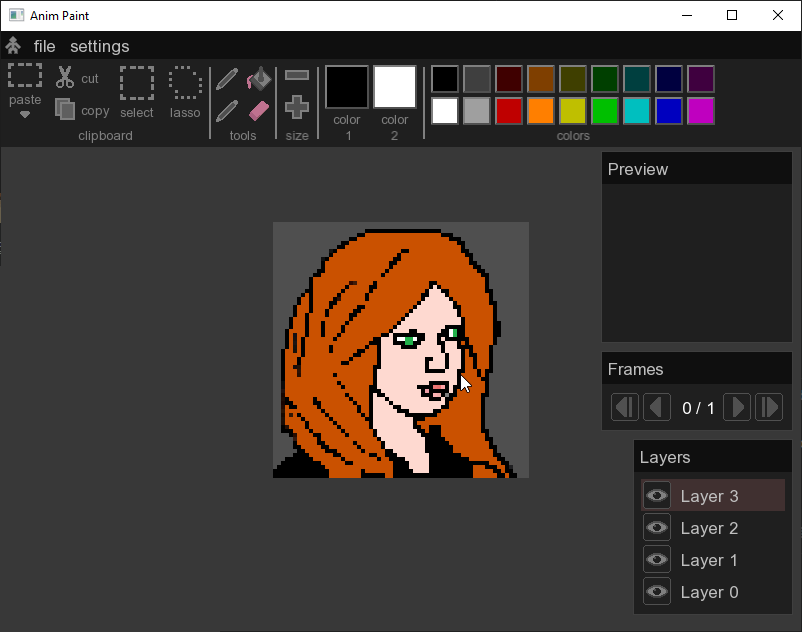
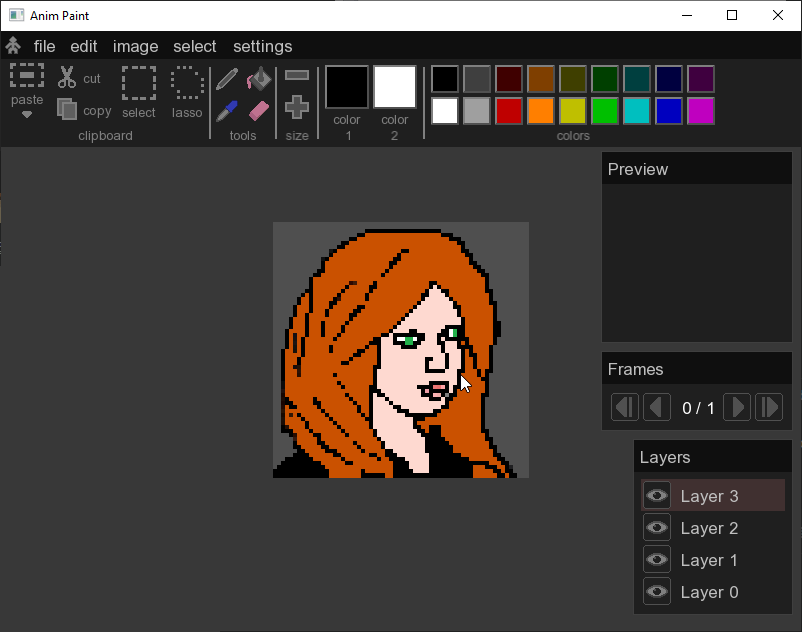
extend main menu

diff --git a/Anim-Paint/MainMenu.hpp b/Anim-Paint/MainMenu.hpp
@@ -229,20 +229,6 @@ public:
 
 		// FILE
 		MenuBox* file = new MenuBox(L"file");
-		OptionBox* newFile = new OptionBox(L"new file");
-		OptionBox* save = new OptionBox(L"save");
-		OptionBox* saveAs = new OptionBox(L"save as");
-		OptionBox* open = new OptionBox(L"open");
-		OptionBox* exp = new OptionBox(L"export");
-		OptionBox* imp = new OptionBox(L"import");
-		
-		file->addOption(newFile);
-		file->addOption(save);
-		file->addOption(saveAs);
-		file->addOption(open);
-		file->addOption(exp);
-		file->addOption(imp);
-
 		file->onclick_func = [this, file]() {
 			if (open_menu_box != nullptr)
 				open_menu_box->isOpen = false;
@@ -250,33 +236,53 @@ public:
 			open_menu_box = file;
 			open_menu_box->isOpen = true;
 			};
-
 		menu_boxes.push_back(file);
+
+		OptionBox* file_new = new OptionBox(L"new file");
+		file_new->onclick_func = [this]() {
+			dialogs.push_back(new Dialog(L"new file", sf::Vector2f(200, 200)));
+			if (this->open_menu_box != nullptr)
+				open_menu_box->isOpen = false;
+			open_menu_box = nullptr;
+			};
+		OptionBox* file_save = new OptionBox(L"save");
+		OptionBox* file_saveAs = new OptionBox(L"save as");
+		OptionBox* file_open = new OptionBox(L"open");
+		OptionBox* file_export = new OptionBox(L"export");
+		OptionBox* file_import = new OptionBox(L"import");
+		
+		file->addOption(file_new);
+		file->addOption(file_save);
+		file->addOption(file_saveAs);
+		file->addOption(file_open);
+		file->addOption(file_export);
+		file->addOption(file_import);
+
+		// EDIT
+		MenuBox* edit = new MenuBox(L"edit");
+		edit->onclick_func = [this, edit]() {
+			if (open_menu_box != nullptr)
+				open_menu_box->isOpen = false;
+
+			open_menu_box = edit;
+			open_menu_box->isOpen = true;
+			};
+		menu_boxes.push_back(edit);
+
+		OptionBox* edit_undo = new OptionBox(L"undo");
+		OptionBox* edit_redo = new OptionBox(L"redo");
+		OptionBox* edit_cut = new OptionBox(L"cut");
+		OptionBox* edit_copy = new OptionBox(L"copy");
+		OptionBox* edit_paste = new OptionBox(L"paste");
+
+		edit->addOption(edit_undo);
+		edit->addOption(edit_redo);
+		edit->addOption(edit_cut);
+		edit->addOption(edit_copy);
+		edit->addOption(edit_paste);
 
 		// IMAGE
 		MenuBox* image = new MenuBox(L"image");
-		OptionBox* image_resize = new OptionBox(L"resize");
-		OptionBox* image_trim = new OptionBox(L"trim");
-		OptionBox* image_brightness_contrast = new OptionBox(L"brightness-contrast");
-		OptionBox* image_brightness = new OptionBox(L"brightness");
-		image_brightness->onclick_func = [this]() {
-			set_brightness(layers_dialog->getCurrentLayer()->image, 0.15f);
-			std::cout << "click\n";	// nie działa
-			};
-		OptionBox* image_contrast = new OptionBox(L"contrast");
-		image_contrast->onclick_func = [this]() {
-			set_contrast(layers_dialog->getCurrentLayer()->image, 1.5f);
-			std::cout << "click\n";	// działa
-			};
-		OptionBox* image_hue = new OptionBox(L"hue");
-		
-		image->addOption(image_resize);
-		image->addOption(image_trim);
-		image->addOption(image_brightness_contrast);
-		image->addOption(image_brightness);
-		image->addOption(image_contrast);
-		image->addOption(image_hue);
-
 		image->onclick_func = [this, image]() {
 			if (open_menu_box != nullptr)
 				open_menu_box->isOpen = false;
@@ -284,27 +290,35 @@ public:
 			open_menu_box = image;
 			open_menu_box->isOpen = true;
 			};
-
 		menu_boxes.push_back(image);
+
+		OptionBox* image_resize_scale = new OptionBox(L"resize/scale");
+		OptionBox* image_trim = new OptionBox(L"trim");
+		OptionBox* image_brightness_contrast = new OptionBox(L"brightness-contrast");
+		image_brightness_contrast->onclick_func = [this]() {
+			dialogs.push_back(new Dialog(L"brightness-contrast", sf::Vector2f(200, 200), sf::Vector2f(8, 120)));
+			//set_brightness(layers_dialog->getCurrentLayer()->image, 0.15f);
+			//set_contrast(layers_dialog->getCurrentLayer()->image, 1.5f);
+
+			if(open_menu_box!=nullptr)
+				open_menu_box->isOpen = false;
+			open_menu_box = nullptr;
+			};
+		OptionBox* saturation = new OptionBox(L"saturation");
+		OptionBox* image_hue = new OptionBox(L"hue");
+		OptionBox* image_gray = new OptionBox(L"grayscale mode");
+		OptionBox* image_invert = new OptionBox(L"invert colors");
+		
+		image->addOption(image_resize_scale);
+		image->addOption(image_trim);
+		image->addOption(image_brightness_contrast);
+		image->addOption(saturation);
+		image->addOption(image_hue);
+		image->addOption(image_gray);
+		image->addOption(image_invert);
 
 		// SELECT
 		MenuBox* select = new MenuBox(L"select");
-		OptionBox* select_all = new OptionBox(L"select all");
-		OptionBox* select_none = new OptionBox(L"none");
-		OptionBox* select_invert = new OptionBox(L"invert");
-		OptionBox* select_brightness_contrast = new OptionBox(L"brightness-contrast");
-		OptionBox* select_brightness = new OptionBox(L"brightness");
-		OptionBox* select_contrast = new OptionBox(L"contrast");
-		OptionBox* select_hue = new OptionBox(L"hue");
-
-		select->addOption(select_all);
-		select->addOption(select_none);
-		select->addOption(select_invert);
-		select->addOption(select_brightness_contrast);
-		select->addOption(select_brightness);
-		select->addOption(select_contrast);
-		select->addOption(select_hue);
-
 		select->onclick_func = [this, select]() {
 			if (open_menu_box != nullptr)
 				open_menu_box->isOpen = false;
@@ -312,14 +326,32 @@ public:
 			open_menu_box = select;
 			open_menu_box->isOpen = true;
 			};
-
 		menu_boxes.push_back(select);
+
+		OptionBox* select_all = new OptionBox(L"select all");
+		OptionBox* select_none = new OptionBox(L"none");
+		OptionBox* select_invert = new OptionBox(L"invert selection");
+		OptionBox* select_resize_scale = new OptionBox(L"resize/scale");
+		OptionBox* select_brightness_contrast = new OptionBox(L"brightness-contrast");
+		OptionBox* select_saturation = new OptionBox(L"saturation");
+		OptionBox* select_hue = new OptionBox(L"hue");
+		OptionBox* select_gray = new OptionBox(L"grayscale mode");
+		OptionBox* select_invert_colors = new OptionBox(L"invert colors");
+		
+
+		select->addOption(select_all);
+		select->addOption(select_none);
+		select->addOption(select_invert);
+		select->addOption(select_resize_scale);
+		select->addOption(select_brightness_contrast);
+		select->addOption(select_saturation);
+		select->addOption(select_hue);
+		select->addOption(select_gray);
+		select->addOption(select_invert_colors);
 
 
 		// SETTINGS
 		MenuBox* settings = new MenuBox(L"settings");
-		menu_boxes.push_back(settings);
-
 		settings->onclick_func = [this, settings]() {
 			if (open_menu_box != nullptr)
 				open_menu_box->isOpen = false;
@@ -327,6 +359,7 @@ public:
 			open_menu_box = settings;
 			open_menu_box->isOpen = true;
 			};
+		menu_boxes.push_back(settings);
 
 		
 		// POSITIONING

diff --git a/Anim-Paint/Dialog.hpp b/Anim-Paint/Dialog.hpp
@@ -1,34 +1,50 @@
 #ifndef Dialog_hpp
 #define Dialog_hpp
 
+enum class DialogState { Idle, ToClose };
 
-
-class Dialog: public ElementGUI {
+class Dialog : public ElementGUI {
 public:
 	sf::Vector2f position;
 	sf::RectangleShape dialog_rect;
 	sf::RectangleShape title_rect;
 	sf::Text title_text;
 	sf::RectangleShape content_rect;
+	NormalButton* close_btn;
+
+	DialogState state;
 
 	bool is_moved;
 	sf::Vector2f offset;
-	
-	Dialog(std::wstring title, sf::Vector2f size, sf::Vector2f position = sf::Vector2f(0,0)) {
+
+	Dialog(std::wstring title, sf::Vector2f size, sf::Vector2f position = sf::Vector2f(-1, -1)) {
+
+		state = DialogState::Idle;
 
 		dialog_rect = sf::RectangleShape(size);
 		dialog_rect.setFillColor(dialog_border_color);
 
-		title_rect = sf::RectangleShape(sf::Vector2f(size.x-2* dialog_border_width, dialog_title_rect_height));
+		title_rect = sf::RectangleShape(sf::Vector2f(size.x - 2 * dialog_border_width, dialog_title_rect_height));
 		title_rect.setFillColor(dialog_title_rect_color);
 
 		title_text = sf::Text(title, basicFont, dialog_title_font_size);
 		title_text.setFillColor(dialog_title_text_color);
 
-		content_rect = sf::RectangleShape(sf::Vector2f(size.x-2* dialog_border_width, size.y-2* dialog_border_width-title_rect.getSize().y));
+		content_rect = sf::RectangleShape(sf::Vector2f(size.x - 2 * dialog_border_width, size.y - 2 * dialog_border_width - title_rect.getSize().y));
 		content_rect.setFillColor(dialog_content_rect_color);
 
-		setPosition(position);
+		close_btn = new NormalButton(getTexture(L"tex\\dialog\\close.png"), getTexture(L"tex\\dialog\\close_hover.png"));
+		close_btn->onclick_func = [this]() {
+			state = DialogState::ToClose;
+			};
+
+		if (position == sf::Vector2f(-1,-1)){
+			sf::Vector2f pos; 
+			pos.x = window->getSize().x / 2 - size.x/2;
+			pos.y = window->getSize().y / 2 - size.y/2;
+			setPosition(pos);
+		}else
+			setPosition(position);
 
 		is_moved = false;
 		offset = sf::Vector2f(0, 0);
@@ -54,6 +70,7 @@ public:
 
 		dialog_rect.setPosition(this->position);
 		title_rect.setPosition(this->position + sf::Vector2f(dialog_border_width, dialog_border_width));
+		close_btn->setPosition(this->position + sf::Vector2f(this->getSize().x - dialog_border_width - 32, dialog_border_width));
 		sf::Vector2f pos(this->position + sf::Vector2f(dialog_border_width + (title_rect.getSize().y - title_text.getFont()->getLineSpacing(dialog_title_font_size)) / 2.0f, dialog_border_width + (title_rect.getSize().y - title_text.getFont()->getLineSpacing(dialog_title_font_size)) / 2.0f));
 		title_text.setPosition(pos);
 		content_rect.setPosition(this->position + sf::Vector2f(dialog_border_width, dialog_border_width + title_rect.getSize().y));
@@ -63,6 +80,8 @@ public:
 		if (dialog_rect.getGlobalBounds().contains(worldMousePosition)) {
 			ElementGUI_hovered = this;
 		}
+
+		close_btn->cursorHover();
 	}
 
 	virtual void handleEvent(sf::Event& event) {
@@ -76,17 +95,21 @@ public:
 			is_moved = false;
 		}
 		
+		close_btn->handleEvent(event);
 	}
 
 	virtual void update() {
 		if (is_moved) {
 			setPosition(worldMousePosition + offset);
 		}
+
+		close_btn->update();
 	}
 	
 	virtual void draw() {
 		window->draw(dialog_rect);
 		window->draw(title_rect);
+		close_btn->draw();
 		window->draw(title_text);
 		window->draw(content_rect);
 	}

diff --git a/Anim-Paint/main.cpp b/Anim-Paint/main.cpp
@@ -63,6 +63,12 @@ int main() {
 	tools = new Tools();
 	canvas = new Canvas(sf::Vector2i(frames_dialog->getCurrentFrame()->layers[0]->image.getSize()));
 
+	// TO-DO - for development
+
+	main_menu->menu_boxes[1]->options[2]->click();
+
+	//
+
 	while (window->isOpen()) {
 		prevTime = currentTime;
 		currentTime = timeClock.getElapsedTime();
@@ -70,6 +76,17 @@ int main() {
 		mousePosition = sf::Mouse::getPosition(*window); // get the mouse position about window
 		worldMousePosition = window->mapPixelToCoords(mousePosition); // get global mouse position
 		
+		// delete old dialogs
+		for (int i = 0; i < dialogs.size(); ) {
+			if (dialogs[i]->state == DialogState::ToClose) {
+				delete dialogs[i];
+				dialogs.erase(dialogs.begin() + i);
+			}
+			else {
+				i++;
+			}
+		}
+
 		// cursor hovering
 		ElementGUI_hovered = nullptr;
 
@@ -144,7 +161,6 @@ int main() {
 		
 		// update
 		
-
 		// render
 		window->clear(sf::Color(56,56,56));
 		canvas->draw();

diff --git a/Anim-Paint/Textures.hpp b/Anim-Paint/Textures.hpp
@@ -38,6 +38,10 @@ void loadTextures() {
 	// logos
 	loadTexture(L"tex\\logo\\small_logo.png");
 
+	// dialogs
+	loadTexture(L"tex\\dialog\\close.png");
+	loadTexture(L"tex\\dialog\\close_hover.png");
+
 	// dialog - frames
 	loadTexture(L"tex\\frames\\first.png");
 	loadTexture(L"tex\\frames\\first_hover.png");

diff --git a/README.md b/README.md
@@ -14,7 +14,6 @@
 ![Zrzut ekranu](screenshots/01.png)
 ![Zrzut ekranu](screenshots/02.png)
 ![Zrzut ekranu](screenshots/03.png)
-![Zrzut ekranu](screenshots/04.png)
 
 ## Instalacja
 1. Pobierz i zainstaluj Visual Studio 2022
